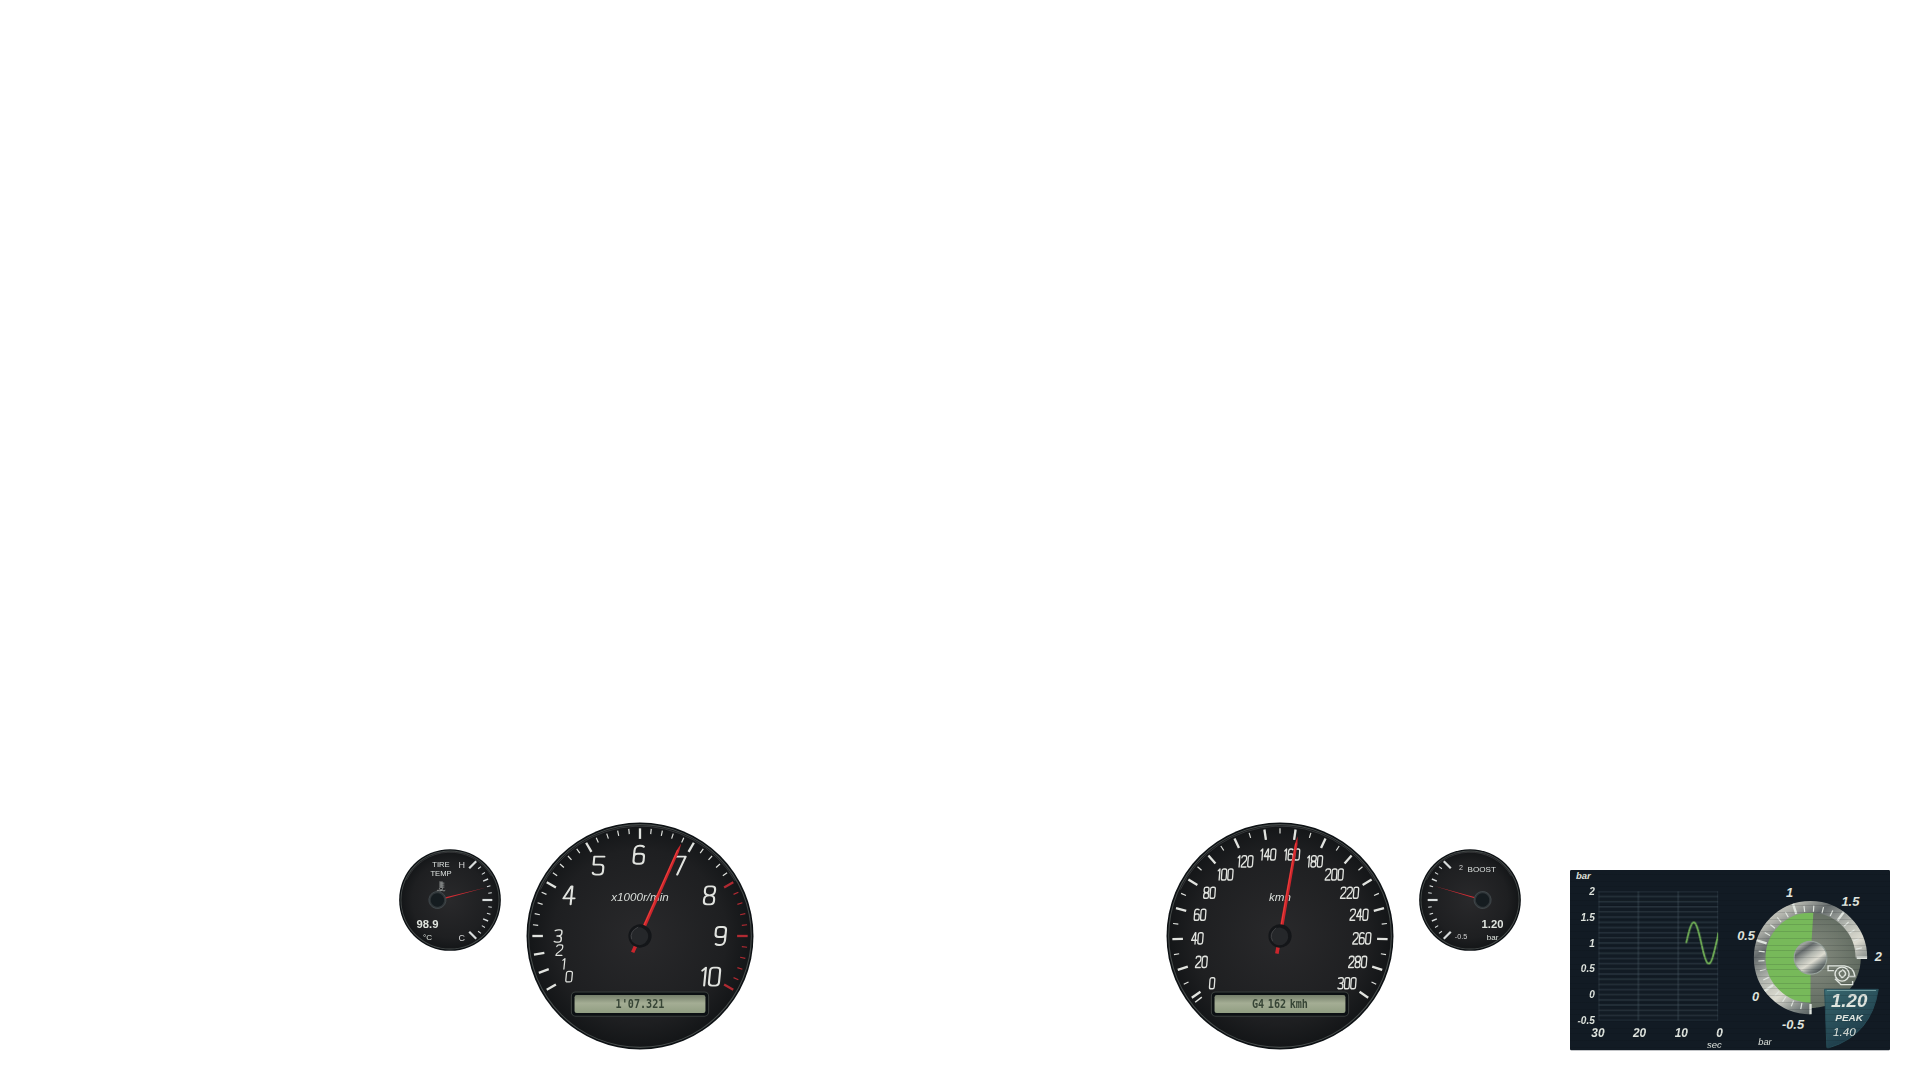
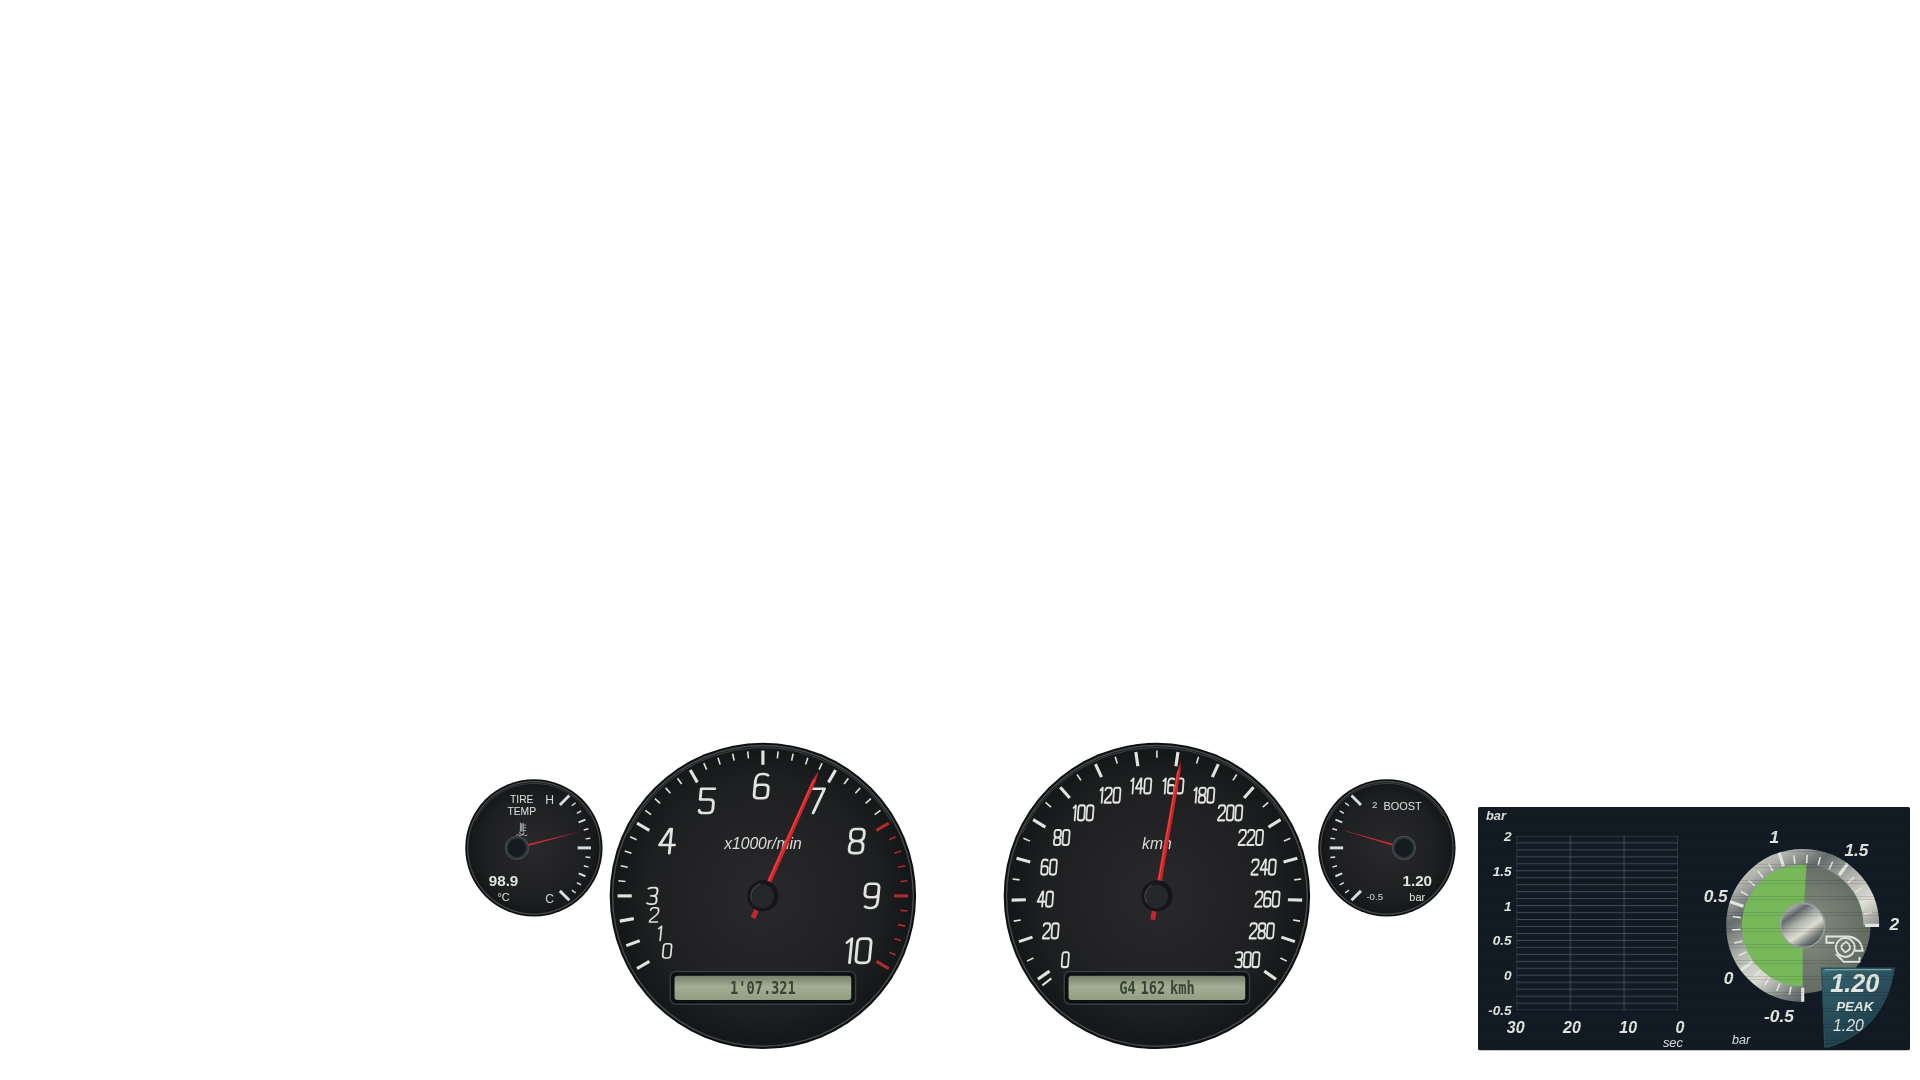
fix(hud): resolve R34 MFD layout void and gauge rendering issues

Changed region(s): [[0.1875, 0.6722, 1.0, 0.9778]]

diff --git a/hud_overlay/r34_mfd/layout.js b/hud_overlay/r34_mfd/layout.js
@@ -6,26 +6,27 @@
     function box(cx, cy, radius) { return { x: cx - radius, y: cy - radius, width: radius * 2, height: radius * 2 }; }
     function layout(width, height, userScale, showCluster) {
         var w = positive(width, 1920), h = positive(height, 1080);
-        var margin = Math.min(w / 10, h / 10, Math.max(24, h / 36));
-        var screenMarginX = Math.max(10, Math.min(18, margin * 0.45));
+        var margin = Math.min(w / 10, h / 10, Math.max(20, h / 36));
+        var screenMarginX = Math.max(8, Math.min(14, margin * 0.35));
         var clusterGap = Math.min(16, Math.max(8, w / 40));
         var heightFactor = clamp(h / 1080, .8, 1.5);
         var screenPerFactor = clamp(320 * h / 1080, 230, 380) / heightFactor;
         // Keep auxiliaries close, with a scaled gap beyond both module radii.
-        // Reserve that full reach before fitting the corner LCD and center safe gap.
+        // Reserve that reach before fitting the corner LCD and center cluster.
         var auxOffset = 114 + 54 + 2;
         var auxReach = auxOffset + 54;
-        var minOffsetBase = 260;
+        var minOffsetBase = 136;
+        var preferredOffsetBase = 146;
         var maximum = Math.max(.001, Math.min((w / 2 - screenMarginX - clusterGap) / (screenPerFactor + auxReach + minOffsetBase), (h - 2 * margin) / 228));
         if (showCluster === false) maximum = Math.min((w - 2 * screenMarginX) / screenPerFactor, (h - 2 * margin) / (screenPerFactor * 152 / 270));
         var scale = Math.min(heightFactor * positive(userScale, 1), maximum);
         var radius = 114 * scale, smallRadius = 54 * scale, screenWidth = screenPerFactor * scale;
         var screenHeight = screenWidth * 152 / 270;
         var cx = w / 2, cy = h - margin - radius;
-        var maxOffset = 320 * scale;
         var minOffset = minOffsetBase * scale;
+        var preferredOffset = preferredOffsetBase * scale;
         var availableOffset = w / 2 - screenMarginX - screenWidth - auxReach * scale - clusterGap;
-        var offset = showCluster === false ? maxOffset : Math.min(maxOffset, Math.max(minOffset, availableOffset));
+        var offset = showCluster === false ? preferredOffset : Math.max(minOffset, Math.min(preferredOffset, availableOffset));
         return {
             width: w, height: h, scale: scale, margin: margin, screenMarginX: screenMarginX,
             tach: box(cx - offset, cy, radius), speed: box(cx + offset, cy, radius),

diff --git a/frontend/src/features/overlay_control/r34_mfd/R34MfdSettingsCard.tsx b/frontend/src/features/overlay_control/r34_mfd/R34MfdSettingsCard.tsx
@@ -1,9 +1,11 @@
 import { useId } from 'react';
-import type { HudConfig } from '../hudConfig';
+import type { HudConfig, HudElements } from '../hudConfig';
 import type { HudConfigPatch } from '../overlayControlRuntime';
 import { R34_MFD_MODES, type R34MfdMode, type R34Lighting } from './config';
 export function R34MfdSettingsCard({ config, onChange, t }: {
-  config: Pick<HudConfig, 'r34MfdMode' | 'r34ShowCluster' | 'r34Lighting'>; onChange: (patch: HudConfigPatch) => void; t: (key: string) => string;
+  config: Pick<HudConfig, 'r34MfdMode' | 'r34ShowCluster' | 'r34Lighting'> & { elements: Pick<HudElements, 'showCenterInfo'> };
+  onChange: (patch: HudConfigPatch) => void;
+  t: (key: string) => string;
 }) {
   const id = useId();
   return <div className="border-top pt-2 d-flex flex-column gap-2" role="group" aria-label={t('R34 MFD settings')}>
@@ -16,6 +18,11 @@ export function R34MfdSettingsCard({ config, onChange, t }: {
       <input type="checkbox" className="form-check-input" checked={config.r34ShowCluster !== false}
         onChange={event => onChange({ r34ShowCluster: event.target.checked })} />
       <span className="form-check-label fs-7">{t('R34 show instrument cluster')}</span>
+    </label>
+    <label className="form-check form-switch m-0">
+      <input type="checkbox" className="form-check-input" checked={config.elements.showCenterInfo !== false}
+        onChange={event => onChange({ elements: { showCenterInfo: event.target.checked } })} />
+      <span className="form-check-label fs-7">{t('R34 show MFD screen')}</span>
     </label>
     <label htmlFor={`${id}-lighting`} className="form-label fs-7 text-body-secondary mb-0">{t('R34 instrument lighting')}</label>
     <select id={`${id}-lighting`} className="form-select form-select-sm" value={config.r34Lighting ?? 'night'}

diff --git a/hud_overlay/r34_mfd/tests/unit/layout.test.ts b/hud_overlay/r34_mfd/tests/unit/layout.test.ts
@@ -38,4 +38,14 @@ describe('independent lower-center instruments and corner MFD', () => {
   it('sanitizes invalid viewport and scale inputs', () => {
     expect(L.layout(NaN, 0, -1)).toEqual(L.layout(1920, 1080, 1));
   });
+  it('guarantees natural cluster spacing without exaggerated void and generous MFD clearance', () => {
+    const g = L.layout(1920, 1080, 1);
+    const tachRight = g.tach.x + g.tach.width;
+    const speedLeft = g.speed.x;
+    const gap = speedLeft - tachRight;
+    expect(gap).toBeGreaterThan(20);
+    expect(gap).toBeLessThan(100);
+    expect(g.screen.x - (g.boost.x + g.boost.width)).toBeGreaterThan(100);
+    expect(g.screenMarginX).toBeLessThanOrEqual(14);
+  });
 });

diff --git a/hud_overlay/r34_mfd/cluster-art.js b/hud_overlay/r34_mfd/cluster-art.js
@@ -18,7 +18,7 @@
         } else {
             // SVG centers the complete visible row, rather than unequal fixed slots.
             s += '<text x="108" y="' + geometry.baseline + '" text-anchor="middle" xml:space="preserve" id="r34SpeedRow">';
-            s += '<tspan id="r34GearGroup"><tspan>G</tspan><tspan id="r34Gear">—</tspan></tspan>';
+            s += '<tspan id="r34GearGroup"><tspan id="r34GearPrefix">G</tspan><tspan id="r34Gear">—</tspan></tspan>';
             s += '<tspan id="r34LcdDivider"> </tspan><tspan id="r34DigitalSpeedGroup">';
             s += '<tspan id="r34DigitalSpeed">N/A</tspan><tspan> </tspan><tspan id="r34DigitalSpeedUnit">kmh</tspan></tspan></text>';
         }

diff --git a/hud_overlay/r34_mfd/renderer.js b/hud_overlay/r34_mfd/renderer.js
@@ -122,6 +122,8 @@
         var physicalSpeed = view.speedKmh; // Analog face remains fixed kmh; LCD uses selected units.
         n.r34SpeedNeedle.setAttribute('transform', 'translate(108 108) rotate(' + I.speedAngle(physicalSpeed) + ')');
         n.r34SpeedNeedle.style.visibility = view.speed === null ? 'hidden' : 'visible';
+        var isForwardGear = typeof view.gear === 'string' && /^[1-9][0-9]?$/.test(view.gear);
+        if (n.r34GearPrefix) n.r34GearPrefix.textContent = isForwardGear ? 'G' : '';
         this.text('r34Gear', view.gear); this.text('r34DigitalSpeed', LCD.number(view.speed));
         this.text('r34DigitalSpeedUnit', view.speedUnit);
         this.drawLcd(view, e);
